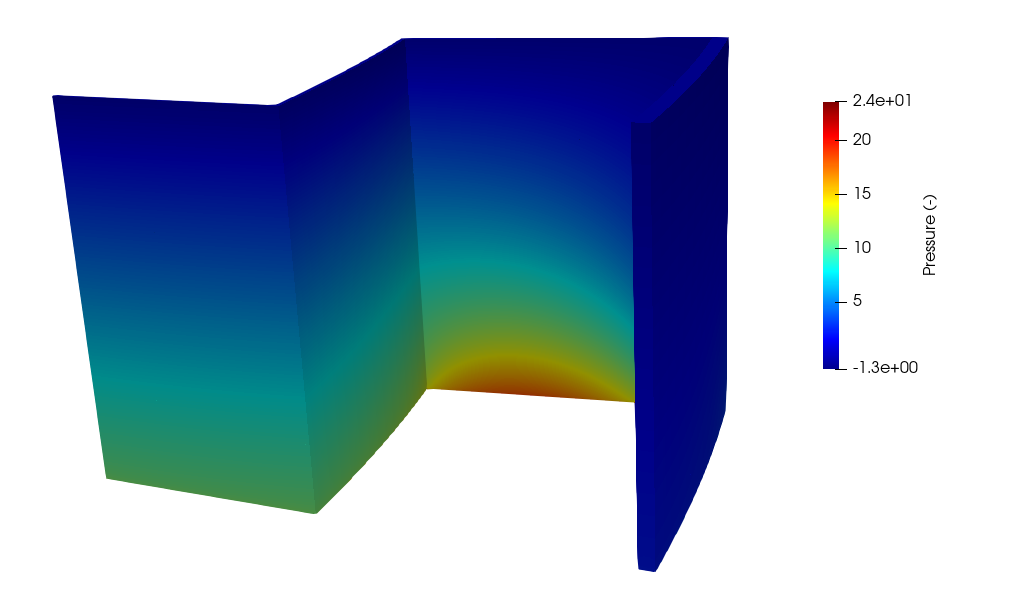
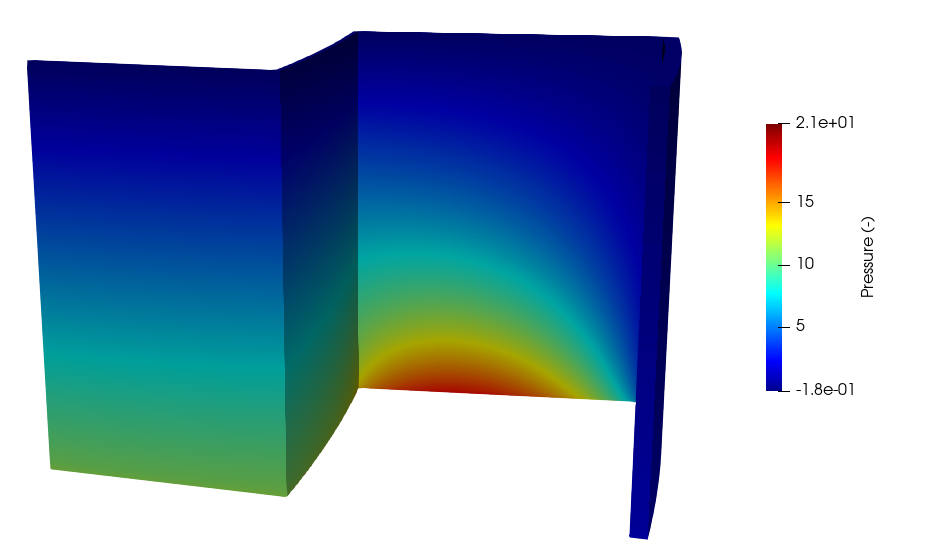
First complete draft of Part 2

diff --git a/doc/content/pbfhr/reflector.md b/doc/content/pbfhr/reflector.md
@@ -932,8 +932,8 @@ conduction case in [#part1].
 
 ### Solid Input Files
 
-The solid phase is again solved with the MOOSE heat conduction module, with the mesh generated
-with Cubit as described in [#solid_mesh]. The input file is largely the same as the conduction
+The solid phase is again solved with the MOOSE heat conduction module.
+The input file is largely the same as the conduction
 case, except that now the gap radiation heat flux between blocks is included with a
 [ThermalContact](https://mooseframework.inl.gov/source/actions/ThermalContactAction.html) action.
 
@@ -958,10 +958,70 @@ solution. The postprocessors used for the nekRS wrapping are shown below.
 !listing /pbfhr/reflector/cht/nek.i
   start=Postprocessors
 
+We have added postprocessors to compute the average inlet pressure, and the average
+inlet and outlet mass flowrates. Like the `NekVolumeExtremeValue`, these postprocessors
+operate directly on nekRS's internal solution arrays to provide diagnostic information.
+Because the outlet pressure is set to zero, `pressure_in` corresponds to the pressure
+drop in the fluid.
+
+As in [#part1], four additional files are required to set up the nekRS simulation -
+`fluid.re2`, `fluid.par`, `fluid.udf`, and `fluid.oudf`. These files are largely the
+same as those used in the steady conduction model, so only the differences will be
+emphasized here.
+
+The `fluid.par` file is shown below. Here, `startFrom` provides a restart file,
+`conduction.fld` and specifies that we only want to read temperature from the
+file (by appending `+T` to the file name). We increase the polynomial order as well.
+
+!listing /pbfhr/reflector/cht/fluid.par
+
+In the `[VELOCITY]` block, the density is set to unity, because the solve is conducted
+in nondimensional form, such that
+
+\begin{equation}
+\label{eq:nondim_p}
+\rho^\dagger\equiv\frac{\rho_f}{\rho_0}=1
+\end{equation}
+
+The coefficient on the diffusive term, as shown in [eq:momentum_nondim], is equal to
+$1/Re$. In nekRS, specifying `diffusivity = -100.0` is equivalent to specifying
+`diffusivity = 0.001` (i.e. $1/100.0$), or a Reynolds number of 100.0. All other parameters
+have similar interpretations as described in [#part1].
+
+The `fluid.udf` file is shown below. The `UDF_Setup` function is again used to apply initial
+conditions; because temperature is read from the restart file, only initial conditions on
+velocity and pressure are required. `nrs->U` is an array storing the three components of
+velocity (padded with length `nrs->fieldOffset`), while `nrs->P` is the array storing the
+pressure solution. Due to the non-dimensional formulation, all values for the axial
+velocity are set to unity.
+
+!listing /pbfhr/reflector/cht/fluid.udf
+
+This file also includes the `UDF_LoadKernels` function, which is used to propagate
+quantities to variables accessibly through [!ac](OCCA) kernels. The `kernelInfo`
+object is used to define two variables - `Vz` and `inlet_T` that will be accessible
+through the [!ac](GPU) kernels, eliminating some burden on the user if the problem
+setup must be changed in multiple locations throughout the nekRS input files.
+
+Finally, the `fluid.oudf` file is shown below. Because the velocity is enabled,
+additional boundary condition functions must be specified in addition to those
+in [#part1]. The `velocityDirichletConditions` function applies Dirichlet
+conditions to velocity, where `bc->u` is the $x$-component of velocity,
+`bc->v` is the $y$-component of velocity, and `bc->z` is the $z$-component of velocity.
+In this function, the kernel variable `Vz` that was defined in the `fluid.udf` file
+is accessible to simplify the boundary condition setup. The other boundary conditions,
+the Dirichlet temperature conditions and the Neumann heat flux conditions, are the
+same as for the steady conduction case.
+
+!listing /pbfhr/reflector/cht/fluid.oudf
+
 ### Execution and Postprocessing
 
 The instructions to run the conjugate heat transfer model are the same as those
-given in [#ep].
+given in [#ep]. The temperature and heat flux distributions are qualitatively quite
+similar to those in [#part1] because temperature differences across the block
+gaps are not very large. Therefore, only the fluid pressure and velocity distributions
+are shown below, both in non-dimensional form.
 
 !media fhr_pressure.png
   id=pressure_cht
@@ -973,8 +1033,56 @@ given in [#ep].
   caption=Velocity (nondimensional) for conjugate heat tranfser coupling between MOOSE and nekRS
   style=width:60%;margin-left:auto;margin-right:auto
 
+The no-slip condition on the solid surface,
+and the symmetry condition on the $y=0$ surface, are clear in [velocity_cht]. The pressure
+loss is highest in the gap along the $\theta=7.5^\circ$ boundary due to the imposition of
+no-slip conditions on both sides of the half-gap width due to limitations in nekRS's
+boundary conditions. Therefore, these pressure predictions are likely to change once nekRS's
+symmetry conditions are expanded to non-$x$/$y$/$z$-aligned surfaces.
+
 ## Pronghorn Closures
 
+This analysis has only predicted the conjugate heat transfer solution for a single value of
+Reynolds number and a single value of gap width. This section briefly describes the procedure
+necessary to use Cardinal for generating porous media closures for Pronghorn - specifically,
+the friction coefficient. Pronghorn's momentum conservation equation contains a distributed loss
+term [!cite](pronghorn_manual) that relates the friction pressure drop to a closure, $W$,
+
+\begin{equation}
+\label{eq:W}
+\epsilon\frac{\partial P}{\partial x_i}=-W_{ij}\rho_fV_j
+\end{equation}
+
+where $\epsilon$ is the porosity, $W$ is a diagonal tensor that is related to the conventional
+definition of a friction coefficient, and $V$ is the interstitial velocity. The present
+model can be used to predict $W$ as a function of the block geometry and the Reynolds number.
+The calculation workflow would be as follows:
+
+1. Re-run the `solid.jou` and `fluid.jou` scripts for a range of block gap widths.
+2. Re-run the steady conduction initial condition calculation in [#part1] and the
+   conjugate heat transfer calculation in [#part2] for the range of block gap widths,
+   for a range of Reynolds numbers.
+3. For each individual run, compute the overall porosity of the block-fluid domain,
+   and express $\partial P/\partial x_i$ in [eq:W] as $\Delta P/H$, where $\Delta P$
+   is the pressure drop given by the `pressure_in` postprocessor in the
+   `nek.i` input file, and $H$ is the height of the block, or 0.502 m.
+4. Correlate the pressure drop results according to [eq:W] and obtain a functional fit
+   to $W$ (with terms linear and quadratic in velocity, according to dimensional
+   considerations for pressure loss).
+5. Use a `FunctionAnisotropicDragCoefficients` friction factor model in Pronghorn,
+   and provide the functional fit in the Pronghorn input file for the linear and
+   quadratic terms in `Darcy_coefficient` (the linear proportionality) and
+   `Forchheimer_coefficient` (the quadratic proportionality).
+
+An example showing this workflow for the [!ac](pbfhr) (albeit with a significantly
+different reflector block geometry) using COMSOL is available in the literature
+[!ac](novak2021).
+
+Similar calculation procedures would be used to predict the Nusselt number, or other
+porous media closures such as effective solid conductivities - parameterize the
+operating space and geometry that affects the physics of interest, run repeated
+high-resolution calculations, and correlate the data into a form that can then
+be inserted into Pronghorn using existing material property classes.
 
 ## Acknowledgements
 
